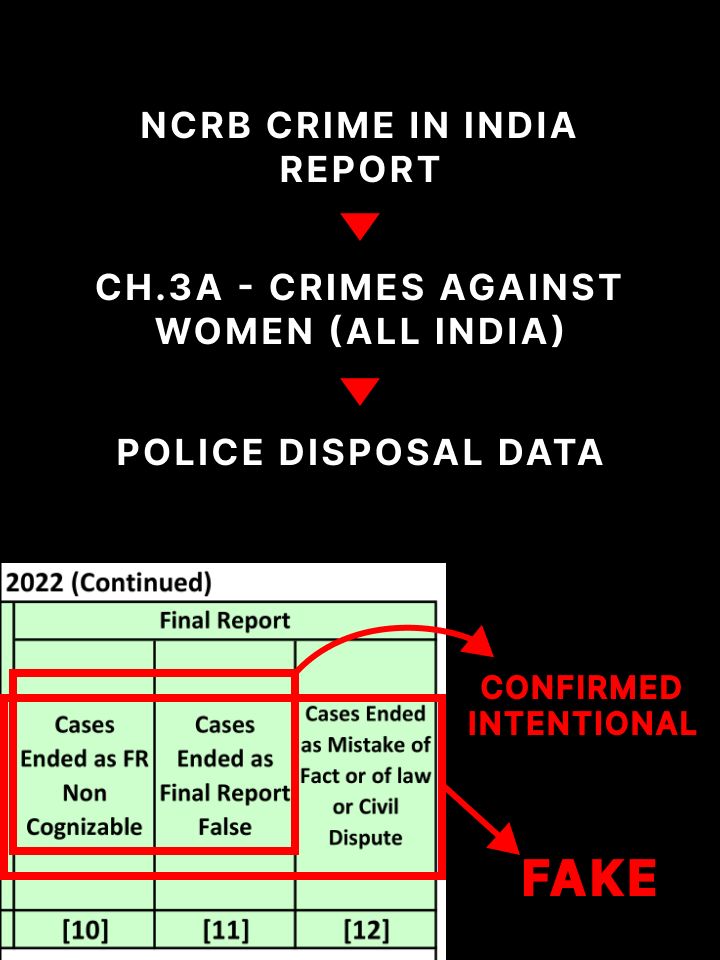
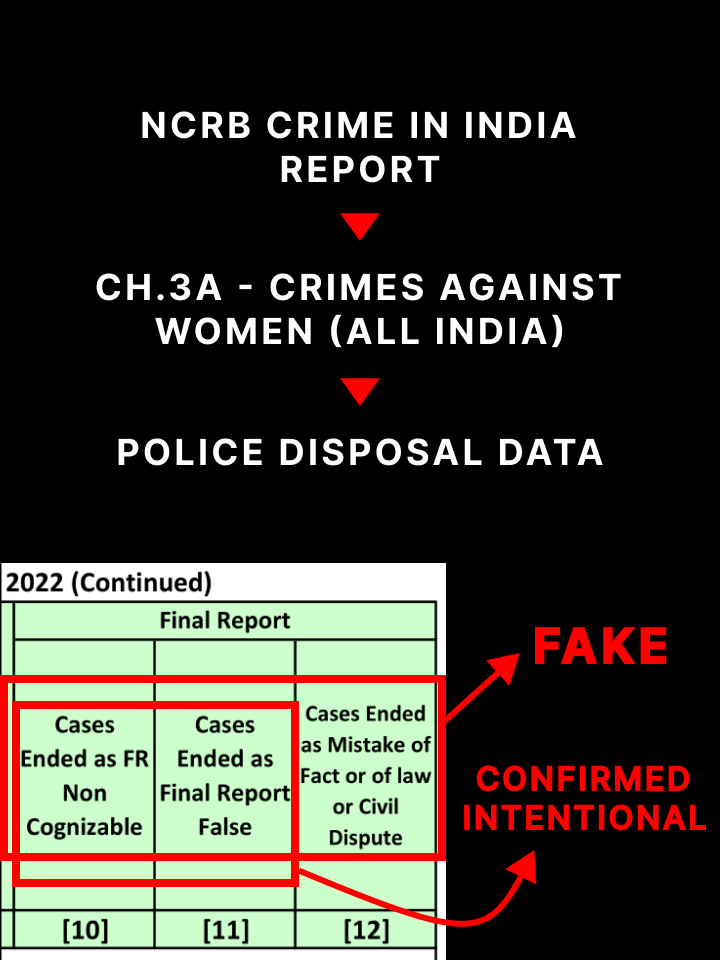
image, test charts

Changed region(s): [[0.0, 0.6562, 0.9778, 0.9688], [0.5194, 0.625, 0.6111, 0.6562]]

diff --git a/charts-test.html b/charts-test.html
@@ -18,51 +18,42 @@
 
     <script>
         const csvData = {
-            "rape": `Year,Reported,FRF,Mistake/Civil,Convicted
-2016,38947,2839,249,4739
-2017,32559,2556,746,5822
-2018,33356,2875,767,4708
-2019,32033,3652,622,4640
-2020,28046,3375,571,3814
-2021,31677,4009,819,3368
-2022,31516,4340,1130,5067`,
+        "rape": `Year,Reported,FRNC,malicious,Mistake/Civil,Convicted
+2016,38947,66,2839,249,4739
+2017,32559,20,2556,746,5822
+2018,33356,31,2875,767,4708
+2019,32033,39,3652,622,4640
+2020,28046,48,3375,571,3814
+2021,31677,14,4009,819,3368
+2022,31516,8,4340,1130,5067`,
 
-            "attempted_rape": `Year,Reported,FRF,Mistake/Civil,Convicted
-2016,5729,503,29,215
-2017,4154,463,153,279
-2018,4097,493,147,266
-2019,3944,718,96,317
-2020,3741,631,90,221
-2021,3800,730,196,158
-2022,3288,760,175,192`,
+        "attempted_rape": `Year,Reported,FRNC,malicious,Mistake/Civil,Convicted
+2016,5729,18,503,29,215
+2017,4154,3,463,153,279
+2018,4097,6,493,147,266
+2019,3944,3,718,96,317
+2020,3741,6,631,90,221
+2021,3800,0,730,196,158
+2022,3288,0,760,175,192`,
 
-            "sexual_assault": `Year,Reported,FRF,Mistake/Civil,Convicted
-2016,84746,4645,1088,7001
-2017,86001,4748,1918,8955
-2018,89097,5257,2450,9352
-2019,88367,6288,2378,8811
-2020,85392,5821,2317,5629
-2021,89200,6764,3625,6502
-2022,83344,6821,2674,8056`,
+        "sexual_assault": `Year,Reported,FRNC,malicious,Mistake/Civil,Convicted
+2016,84746,198,4645,1088,7001
+2017,86001,112,4748,1918,8955
+2018,89097,143,5257,2450,9352
+2019,88367,173,6288,2378,8811
+2020,85392,253,5821,2317,5629
+2021,89200,221,6764,3625,6502
+2022,83344,157,6821,2674,8056`,
 
-            "cruelty": `Year,Reported,FRF,Mistake/Civil,Convicted
-2016,110378,6745,2958,5433
-2017,104551,4931,5385,6777
-2018,103272,4950,5743,4982
-2019,125298,7606,6939,5945
-2020,111549,5520,4832,3425
-2021,136234,6938,7037,4315
-2022,140019,7076,8093,8307`,
-
-            "sexual_insult": `Year,Reported,FRF,Mistake/Civil,Convicted
-2016,7305,400,110,735
-2017,7451,306,128,688
-2018,6992,339,237,515
-2019,6939,425,178,498
-2020,7065,314,134,286
-2021,7788,361,170,253
-2022,8972,449,368,524`
-        };
+        "cruelty": `Year,Reported,FRNC,malicious,Mistake/Civil,Convicted
+2016,110378,135,6745,2958,5433
+2017,104551,56,4931,5385,6777
+2018,103272,170,4950,5743,4982
+2019,125298,63,7606,6939,5945
+2020,111549,122,5520,4832,3425
+2021,136234,44,6938,7037,4315
+2022,140019,56,7076,8093,8307`
+    };
 
         function parseCSV(csv) {
             const rows = csv.split('\n').slice(1);
@@ -77,8 +68,8 @@
             container.appendChild(ctx);
 
             const years = data.map(row => row[0]);
-            const frf = data.map(row => row[2]);
-            const falseCases = data.map(row => row[2] + row[3]);
+            const malicious = data.map(row => row[2] + row[3]);
+            const falseCases = data.map(row => row[2] + row[3] + row[4]);
 
             new Chart(ctx, {
                 type: 'line',
@@ -92,7 +83,7 @@
                         fill: true
                     }, {
                         label: 'Confirmed Malicious',
-                        data: frf,
+                        data: malicious,
                         backgroundColor: 'rgba(255,40,40,0.6)',
                         borderColor: 'rgba(255,0,0,1)',
                         fill: true
